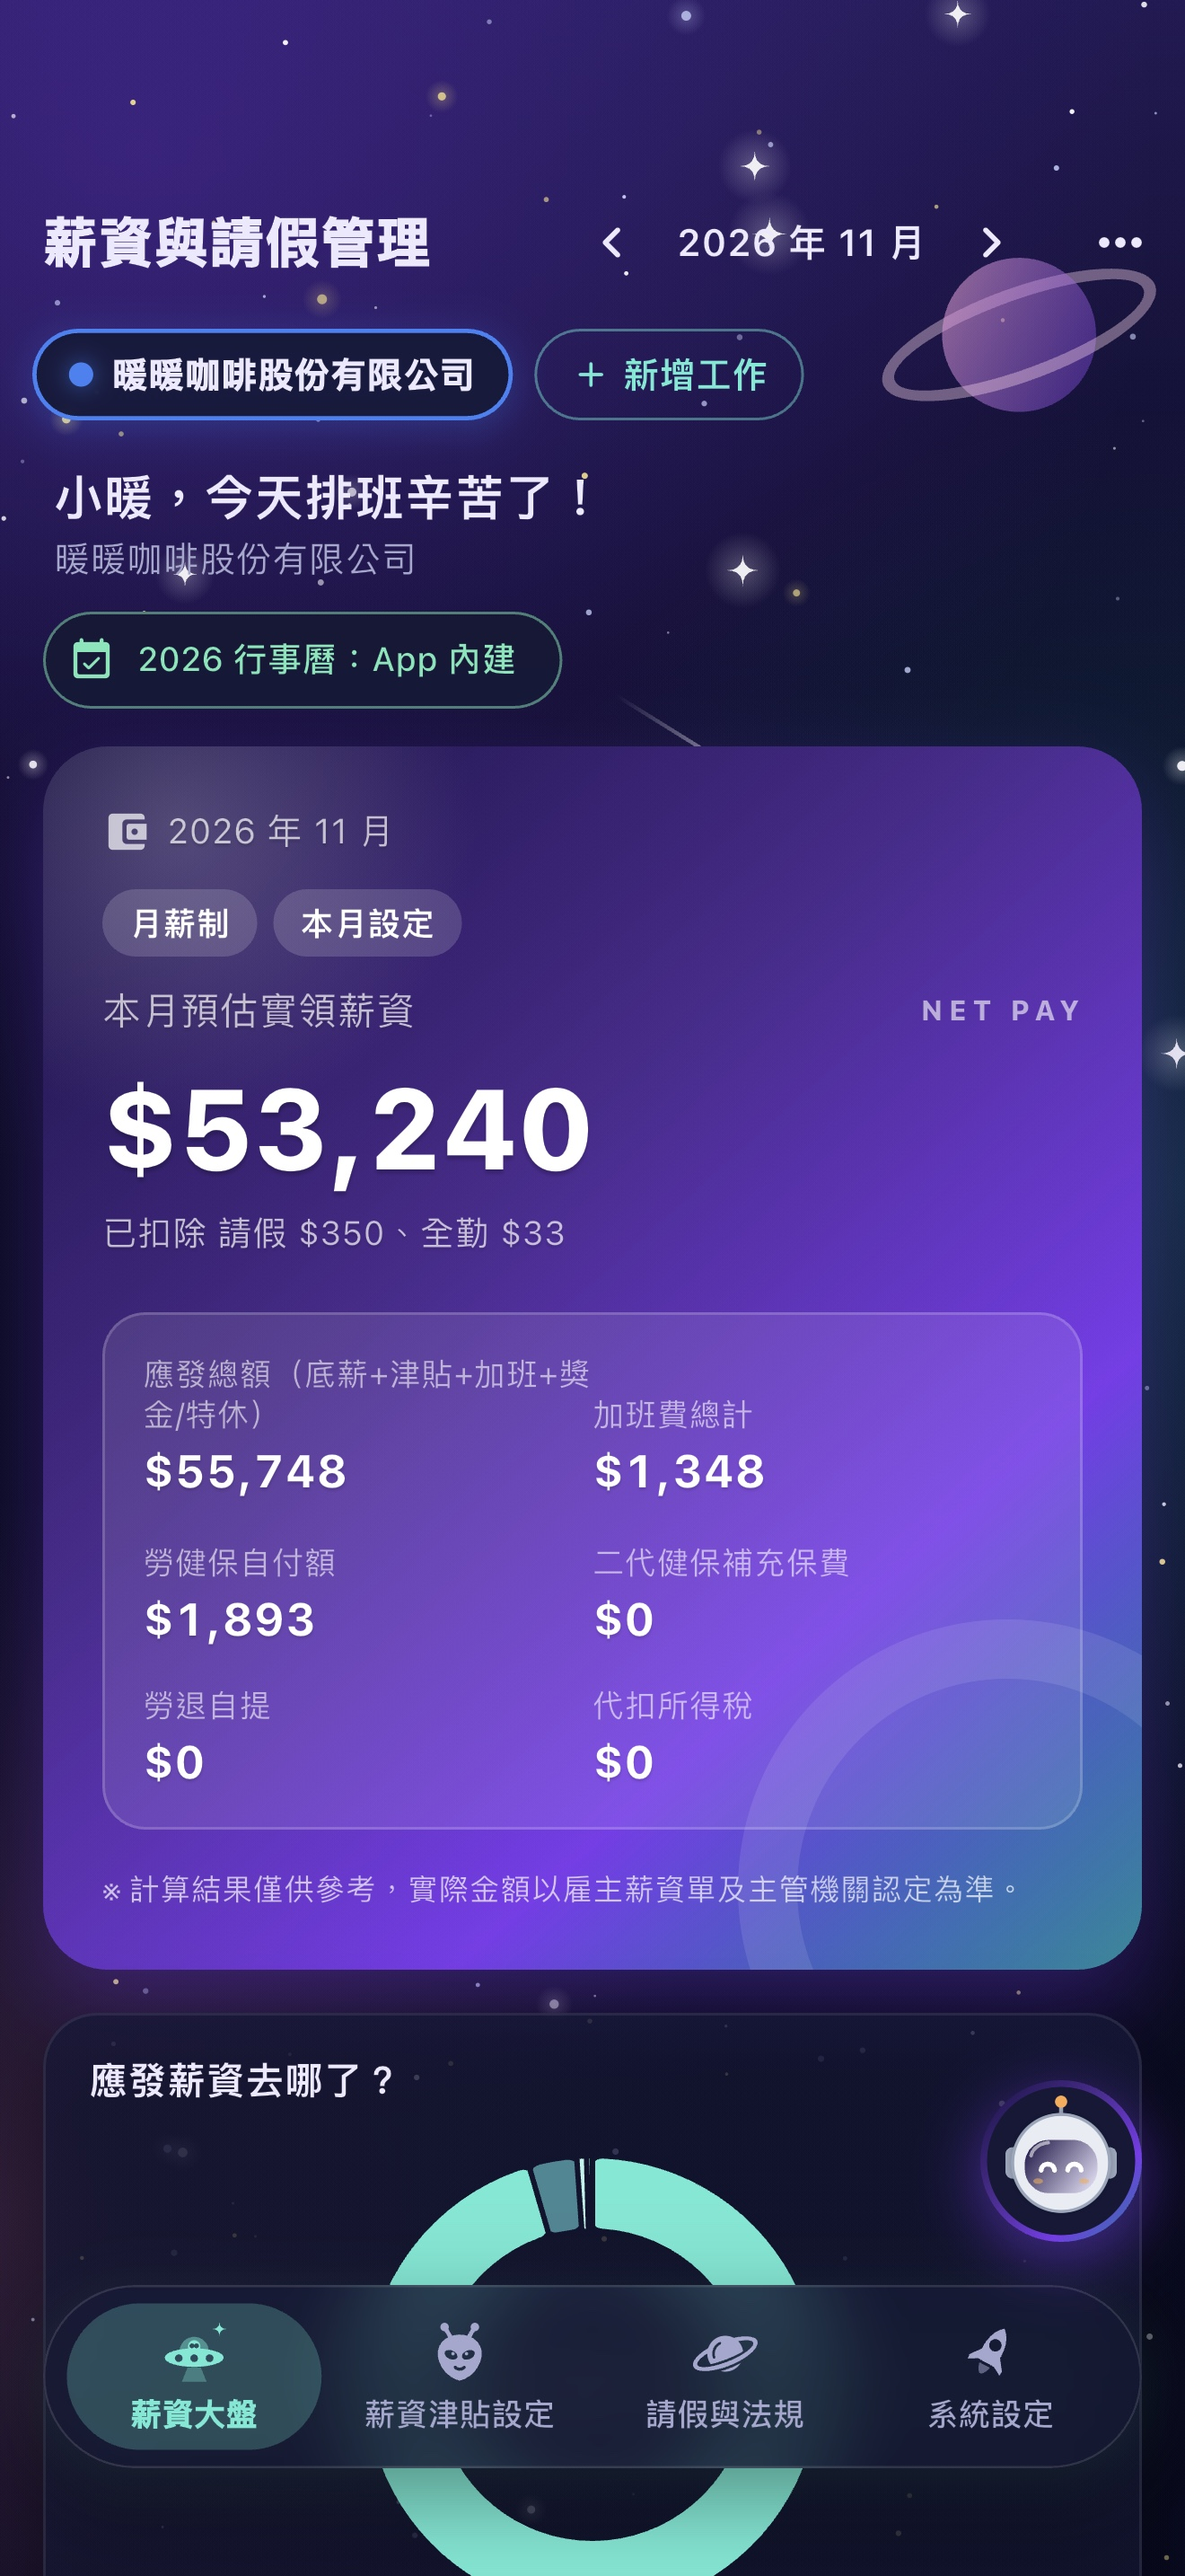
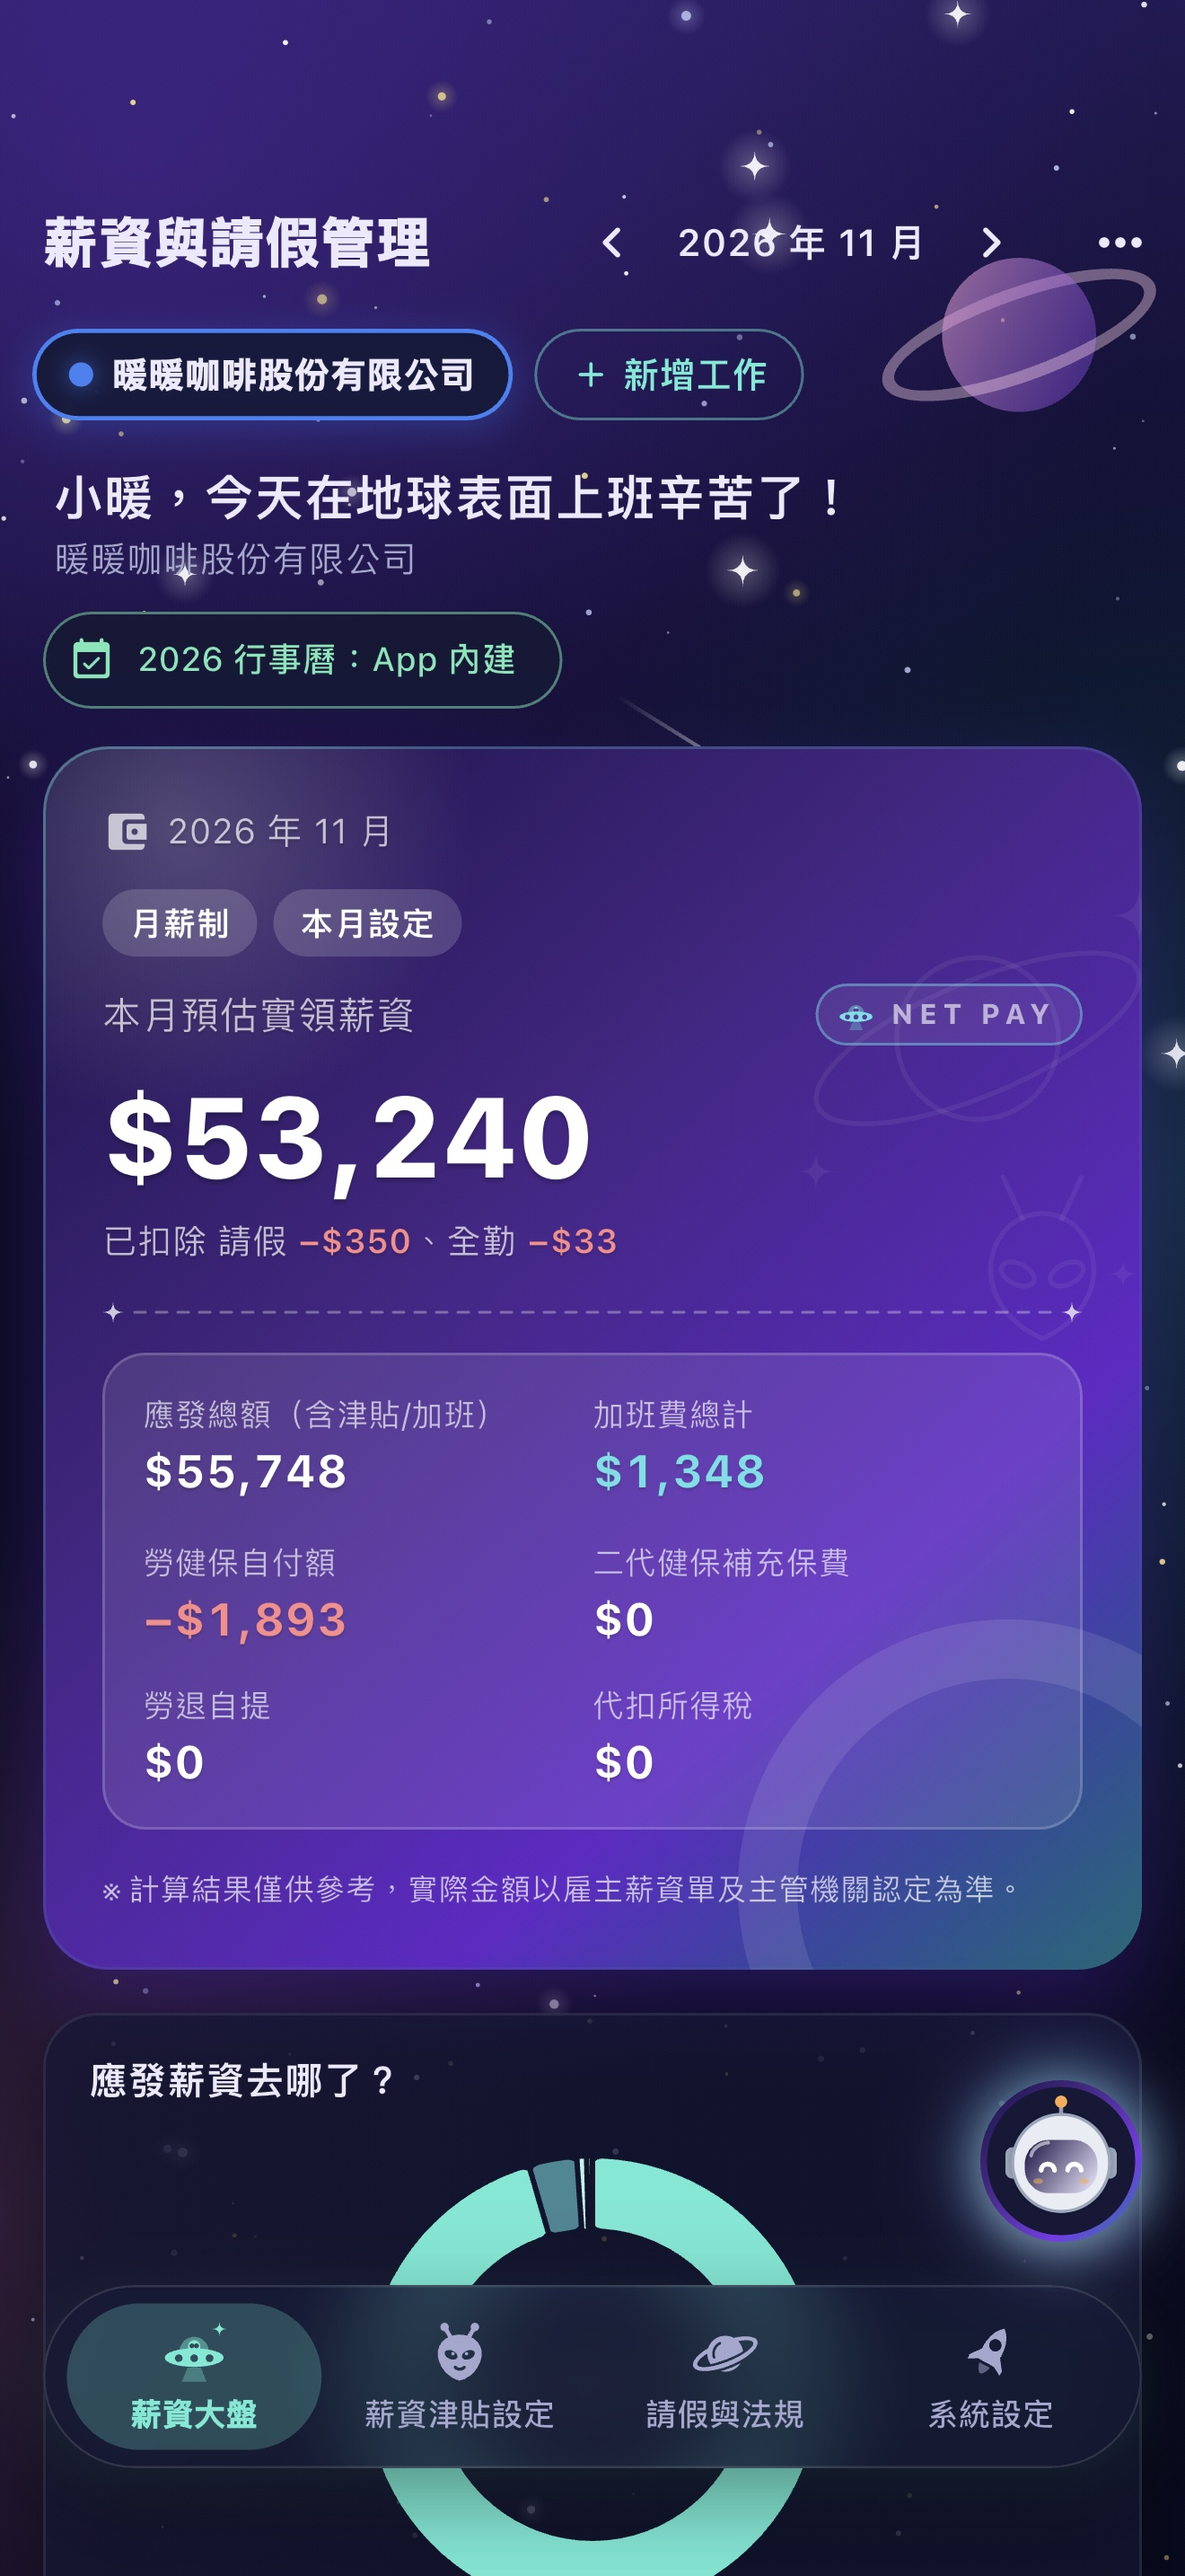
1.0.3：內購改用 RevenueCat（舊會員搬家、查不到不誤鎖、恢復購買三種結果）、主題引擎與日系招財貓主題、正式版資料檢查、除錯紀錄與測試數量

Changed region(s): [[0.0932, 0.3724, 0.9939, 0.8999], [0.2485, 0.1862, 0.6833, 0.2172], [0.1242, 0.6206, 0.3106, 0.6517]]

diff --git a/README.md b/README.md
@@ -37,10 +37,10 @@
 | 破月計算 | 月中到職或離職的月份按日精算：公務人員依俸給法 ÷ 當月日數，勞工依勞動契約選 ÷30 或 ÷ 當月日數；勞保、就保、勞退每月以 30 日計，健保依月底是否在保；大盤顯示「在職 N 天」並附算式 |
 | 按件計酬 | 沒有底薪、做一位客人算一位的工作（例如按摩）：建立價目表（按時間或按次），每天在月曆記錄客人，金額不固定的額外獎金也能當天自行輸入；受僱者依勞基法換算平日每小時工資額、檢查最低工資、計算有薪假，承攬者試算執行業務所得扣繳與二代健保；指定率達標時指定客另有加給（可依客數或時數計算） |
 | 彈性時薪 | 時薪＋每小時加給（每月可不同）、指定日加給、期間達標獎金（例如期間出勤獎金、久任獎勵金）、單日工時獎金（逐級累加或只取最高一級，依公司規範選擇） |
-| 太空人助理 | 主畫面右下角懸浮的太空人：用自己的話發問，完全離線比對 27 則常見問題與 21 則法規說明；回答一字不改地引用並附出處、法規依據與「前往設定頁」按鈕；問得太籠統時列出選項讓使用者選，不在範圍內時說明原因並提供 1955 專線等正式管道，不硬湊答案 |
+| 太空助理 | 主畫面右下角懸浮的太空人（助理名稱與頭像由主題決定，招財貓主題是「招財助理」）：用自己的話發問，完全離線比對 27 則常見問題與 21 則法規說明；回答一字不改地引用並附出處、法規依據與「前往設定頁」按鈕；問得太籠統時列出選項讓使用者選，不在範圍內時說明原因並提供 1955 專線等正式管道，不硬湊答案 |
 | 資料安全 | 本機加密儲存、Face ID／指紋鎖、AES-256-GCM 加密備份檔 |
-| 介面 | 霧面科技風、15 款主題（含星空背景、太空導覽圖示的 Premium「太空外星人」）、深色模式、大字體、懸浮毛玻璃導覽列、12 步功能導覽（涵蓋彈性時薪、按件計酬、每日額外獎金、太空人助理）；iPhone 數字鍵盤上方的「完成」列；看其他月份時點頂部月份文字一鍵回到本月（附「回本月」提示、觸覺回饋與 VoiceOver 標籤）；系統設定內建「常見問題」（6 類 27 題，可搜尋） |
-| Premium | PDF 薪資單與 CSV 對帳報表、完整法條說明、11 款限定主題（含太空外星人）、無限歷史月份、彈性時薪、指定率加給 |
+| 介面 | 霧面科技風、16 款主題（含 Premium 插畫主題「太空外星人」「日系招財貓」，各有專屬背景、導覽圖示、薪資卡片裝飾與助理；主題引擎讓新主題只需覆寫和預設不同的設定）、深色模式、大字體、懸浮毛玻璃導覽列、12 步功能導覽（涵蓋彈性時薪、按件計酬、每日額外獎金、太空助理）；iPhone 數字鍵盤上方的「完成」列；看其他月份時點頂部月份文字一鍵回到本月（附「回本月」提示、觸覺回饋與 VoiceOver 標籤）；系統設定內建「常見問題」（6 類 27 題，可搜尋） |
+| Premium | PDF 薪資單與 CSV 對帳報表、完整法條說明、12 款限定主題（含太空外星人、日系招財貓）、無限歷史月份、彈性時薪、指定率加給 |
 
 ---
 
@@ -82,6 +82,14 @@
 |---|---|---|
 | ![太空外星人主題](screenshots/24_space_theme.jpg) | ![太空主題排班](screenshots/25_space_leave.jpg) | ![主題選單](screenshots/26_space_theme_sheet.jpg) |
 
+| 日系招財貓（淺色） | 日系招財貓（深色） | |
+|---|---|---|
+| ![招財貓淺色](screenshots/27_lucky_cat_light.jpg) | ![招財貓深色](screenshots/28_lucky_cat_dark.jpg) | |
+
+| 恢復購買：查詢中 | 已成功恢復 | 斷網時 |
+|---|---|---|
+| ![恢復中](screenshots/29_restore_loading.jpg) | ![恢復成功](screenshots/30_restore_success.jpg) | ![恢復失敗](screenshots/31_restore_failed.jpg) |
+
 | 點月份回到本月 | | |
 |---|---|---|
 | ![點月份回到本月](screenshots/16_month_jump.jpg) | | |
@@ -122,12 +130,13 @@ App 預覽影片：[app_preview.mp4](screenshots/app_preview.mp4)
 - **刪除重裝不默默顯示舊資料**：iOS 刪除 App 後 Keychain 會殘留。以 UserDefaults 的安裝標記判斷「升級」與「重裝」，分不出來時一律詢問使用者，絕不自動清除；iCloud 備份還原不會被誤判
 - **錯誤不被吞掉**：存檔、備份、PDF、購買失敗時一定用中文說明並可重試；本機錯誤紀錄只記錯誤類型與程式位置（不記訊息內容，避免夾帶金額或姓名），使用者可自願匯出寄給開發者，不使用任何第三方錯誤回報 SDK
 
-### App 內購買
-- Apple StoreKit 2／Google Play Billing：月度、年度訂閱與終身買斷
-- 價格、試用期與年繳折扣一律讀取商店資訊，不寫死金額；商店連不上時顯示「重試」
-- 支援恢復購買、優惠代碼兌換、付款處理中（例如家長同意）的延遲解鎖
-- 已是會員時可在 App 內變更方案（Android 走 Play 換約流程，避免重複扣款）
-- **啟動與回到前景時重新確認會員權利**（StoreKit 2 `Transaction.currentEntitlements`／Play `queryPastPurchases`）：訂閱到期或退款就恢復成免費版並說明原因；沒有網路、查詢失敗一律沿用上次結果，絕不誤鎖付費會員；使用者資料一律保留
+### App 內購買（1.0.3 起：RevenueCat）
+- 月度、年度訂閱與終身買斷，由 **RevenueCat**（`purchases_flutter`）驗證與管理：匿名用戶模式（免註冊、免登入），以 `vip` 權限判斷會員；換手機或重裝後用同一個 Apple ID「恢復購買」
+- 商店介面與 RevenueCat 完全分開：會員邏輯只認得自己定義的「權利快照」，RevenueCat 只出現在一個檔案裡，測試用假的商店模擬購買、取消、到期、退款、斷網與逾時
+- **查不到 ≠ 沒有購買**：啟動先用本機存的狀態，之後才向商店確認；逾時、斷網、初始化失敗一律沿用；RevenueCat 主動通知「沒有權利」時先再確認一次才取消
+- **舊會員搬家**：原生內購時期的購買紀錄，第一次開啟新版時同步給 RevenueCat 一次；同步成功前絕不取消會員
+- **恢復購買**：一定在 20 秒內結束；查詢中顯示太空人漂浮動畫並禁止連點，結束後明確告知「已恢復／查無有效訂閱／請檢查網路」
+- 價格、試用期與年繳折扣一律讀取商店；價格載入前購買按鈕鎖住；付費牆附 EULA 與隱私權政策連結；隱私標示、隱私清單與隱私權政策三者一致
 
 ---
 
@@ -163,6 +172,10 @@ App 預覽影片：[app_preview.mp4](screenshots/app_preview.mp4)
 | **同一種錯誤散落在很多地方**：使用者回報服務紀錄面板被動態島擋住、關不掉，原因是會長高的面板沒加 `useSafeArea`，全 App 有 9 個 | 先用模擬動態島的測試重現（面板頂端 y = 0），全部修正後，再寫一個掃描原始碼的測試：任何 `isScrollControlled` 面板缺少 `useSafeArea` 就失敗並指出檔名行號；故意拿掉修正確認它抓得到 |
 | **使用者想要「AI 助理」，但薪資 App 最怕講錯錢、洩漏隱私** | 比較「連網的生成式 AI」與「離線助理」：前者要架後端保管金鑰、每次對話付費、薪資會傳給第三方，還可能講錯法規。選擇離線做法：中文以兩字一組斷詞、口語換成 App 用詞（年假→特休）、以 IDF 加權計算「問題被說明涵蓋的比例」，回答一律引用寫好、核對過的內容；分數不夠就誠實說不在範圍內，並給出 1955 專線等正式管道。48 則說明都以自己的標題驗證，另有 30 多個口語與不相關的問法寫成測試 |
 | **新主題要有完全不同的背景與導覽圖示，又不能影響其他 14 款主題** | 色盤加一個 `starry` 旗標，背景與導覽列只在旗標成立時換成 `CustomPainter` 畫的星空與飛碟、外星人、行星、火箭；不用任何圖片檔。星星用固定種子產生、包在 `RepaintBoundary` 只畫一次；圖示的眼睛與窗戶在 `saveLayer` 圖層裡以 `BlendMode.clear` 挖空。既有的對比度測試抓到漸層白字不夠清楚，調深顏色才通過 |
+| **主題越來越多，每加一個主題就要改很多檔案** | 抽出主題引擎 `AppTheme`（ThemeExtension）：背景圖樣、導覽圖示組、薪資卡片的顏色與裝飾、問候語、AI 助理名稱與頭像全部集中在一處；預設值給「純背景」主題，插畫主題只覆寫不同的欄位。新增日系招財貓時，編譯器的 exhaustive switch 自動列出每個要補的地方 |
+| **使用者指定的配色，在淺色模式下對比不足** | 招財貓的翠玉綠、柔粉櫻在淺色卡片的明細面板上只有 2.4～2.8 的對比度。不改使用者指定的顏色，而是把明細面板改成漆盒般的深色底，對比提高到 3.3 以上；並寫測試逐一檢查 16 款主題 × 淺深色的卡片文字對比 |
+| **把內購換成 RevenueCat，但已付費的舊會員不能被誤鎖** | 先打 git tag 並推上遠端作為還原點；商店介面改成與供應商無關的型別，只換一層；舊會員在同步成功前絕不取消；所有查詢都有逾時，失敗一律沿用本機狀態 |
+| **有些 bug 只在正式版出現** | 建構子的 `assert` 在正式版會被拿掉，損壞的備份可能讓「請假 0 小時」混進計算。改在 `fromJson` 加上正式版也會執行的檢查：不合理的那一筆略過並記錄，其他資料照常讀取 |
 | **說明文件會過時**：常見問題寫著「到某某設定關閉某某開關」，按鈕一改名就變成錯誤的教學 | 每一則回答先對照程式碼查證（抓到兩處說錯）；再把回答提到的 27 個按鈕名稱與「免費 3 個月、2 份工作」等數字寫成測試，App 改名或改數字而常見問題沒跟著改，測試就失敗 |
 
 ---
@@ -206,15 +219,22 @@ App 預覽影片：[app_preview.mp4](screenshots/app_preview.mp4)
 - **根本原因**：對話用 `ListView`，它只建立畫面附近的元件；最新的問題還沒建立，`GlobalKey` 拿不到位置，`ensureVisible` 什麼也沒做。單元測試的畫面較高，剛好都建立了，所以沒抓到。
 - **修法與防範**：對話最多保留 40 則、全部建立，發問後把問題捲到畫面頂端；單元測試改成「iPhone SE、1.3 倍字、連問 6 題」，讓最新的問題一定在畫面外。
 - **另外兩個小坑**：懸浮按鈕的進場動畫原本 0.9 秒，被既有的「所有進場動畫 0.6 秒內結束」測試擋下；一個「小螢幕溢位」的失敗，先換回一般主題跑對照組，發現一樣溢位，原來是測試把 iPhone SE 的像素密度設錯，不是程式的問題。
+
+### 8. 「重複請求合併」寫錯一個箭頭，Future 永遠在等它自己
+- **症狀**：加入「同一年的國定假日同時被要求多次只送一次」後，所有畫面測試都逾時。
+- **調查**：先懷疑剛改的「測試改用 iOS 平台」，用對照組（拿掉 iOS 設定）排除；再寫探針測試印出畫面文字，看到行事曆一直是「同步中…」。
+- **根本原因**：`whenComplete(() => _inFlight.remove(year))`——`remove` 會回傳這個 Future 本身，`whenComplete` 會等回呼回傳的 Future，於是自己等自己。
+- **修法與防範**：回呼改成不回傳值的區塊，並寫測試確認「三個同時的請求只送一次、完成後可以再下載」。
+
 ---
 
 ## 測試方式
 
-- **單元與畫面測試：1,200 項以上**，每次提交與部署前都必須全部通過；覆蓋率約 93%
+- **單元與畫面測試：1,270 項以上**，每次提交與部署前都必須全部通過；覆蓋率約 93%
   - 勞基法計算：加班倍率、請假扣薪、全勤比例扣減、勞健保級距、二代健保、所得稅、特休年資、跨日班
   - 彈性時薪：以使用者回饋的實際數字建立測試案例（例如時薪 210＋加給 40 的加班 1 小時應為 335、公司算法 321.4；上滿 12 小時的分級獎金逐級累加 1,700、取最高 800）
   - 按件計酬：以使用者回饋的價目建立案例（指壓 60 分鐘 $500、油壓 30 分鐘 $280、套餐按次計價；指定率 60% 達標時只有指定客每 30 分鐘 +$10，59% 不加給；依客數與依時數兩種算法；承攬 $30,000 扣繳 $3,000、補充保費 $633）
-  - 畫面：7 種手機尺寸 × 1.0／1.3 倍字體捲到底不溢位；15 款主題 × 深淺色對比度
+  - 畫面：7 種手機尺寸 × 1.0／1.3 倍字體捲到底不溢位；16 款主題 × 深淺色對比度（含薪資卡片文字、加減項金額）
   - 購買流程：付款成功、取消、處理中、掉單補發、恢復購買、兌換代碼（以模擬商店測試）
   - 備份：加密、解密、密碼錯誤、新舊格式相容
   - **畫面 golden test**：四個分頁整頁與主要彈窗共 31 張 × Mac／Linux 兩套，逐像素比對
@@ -233,7 +253,7 @@ App 預覽影片：[app_preview.mp4](screenshots/app_preview.mp4)
 
 ## 使用技術
 
-Flutter · Dart · Material 3 · StoreKit 2 · Google Play Billing · iOS Keychain · Android Keystore · WebCrypto · AES-GCM · PBKDF2 · PDF 產生 · 本機通知 · GitHub Actions · GitHub Pages
+Flutter · Dart · Material 3 · StoreKit 2 · RevenueCat · Google Play Billing · iOS Keychain · Android Keystore · WebCrypto · AES-GCM · PBKDF2 · PDF 產生 · 本機通知 · GitHub Actions · GitHub Pages
 
 ---
 
